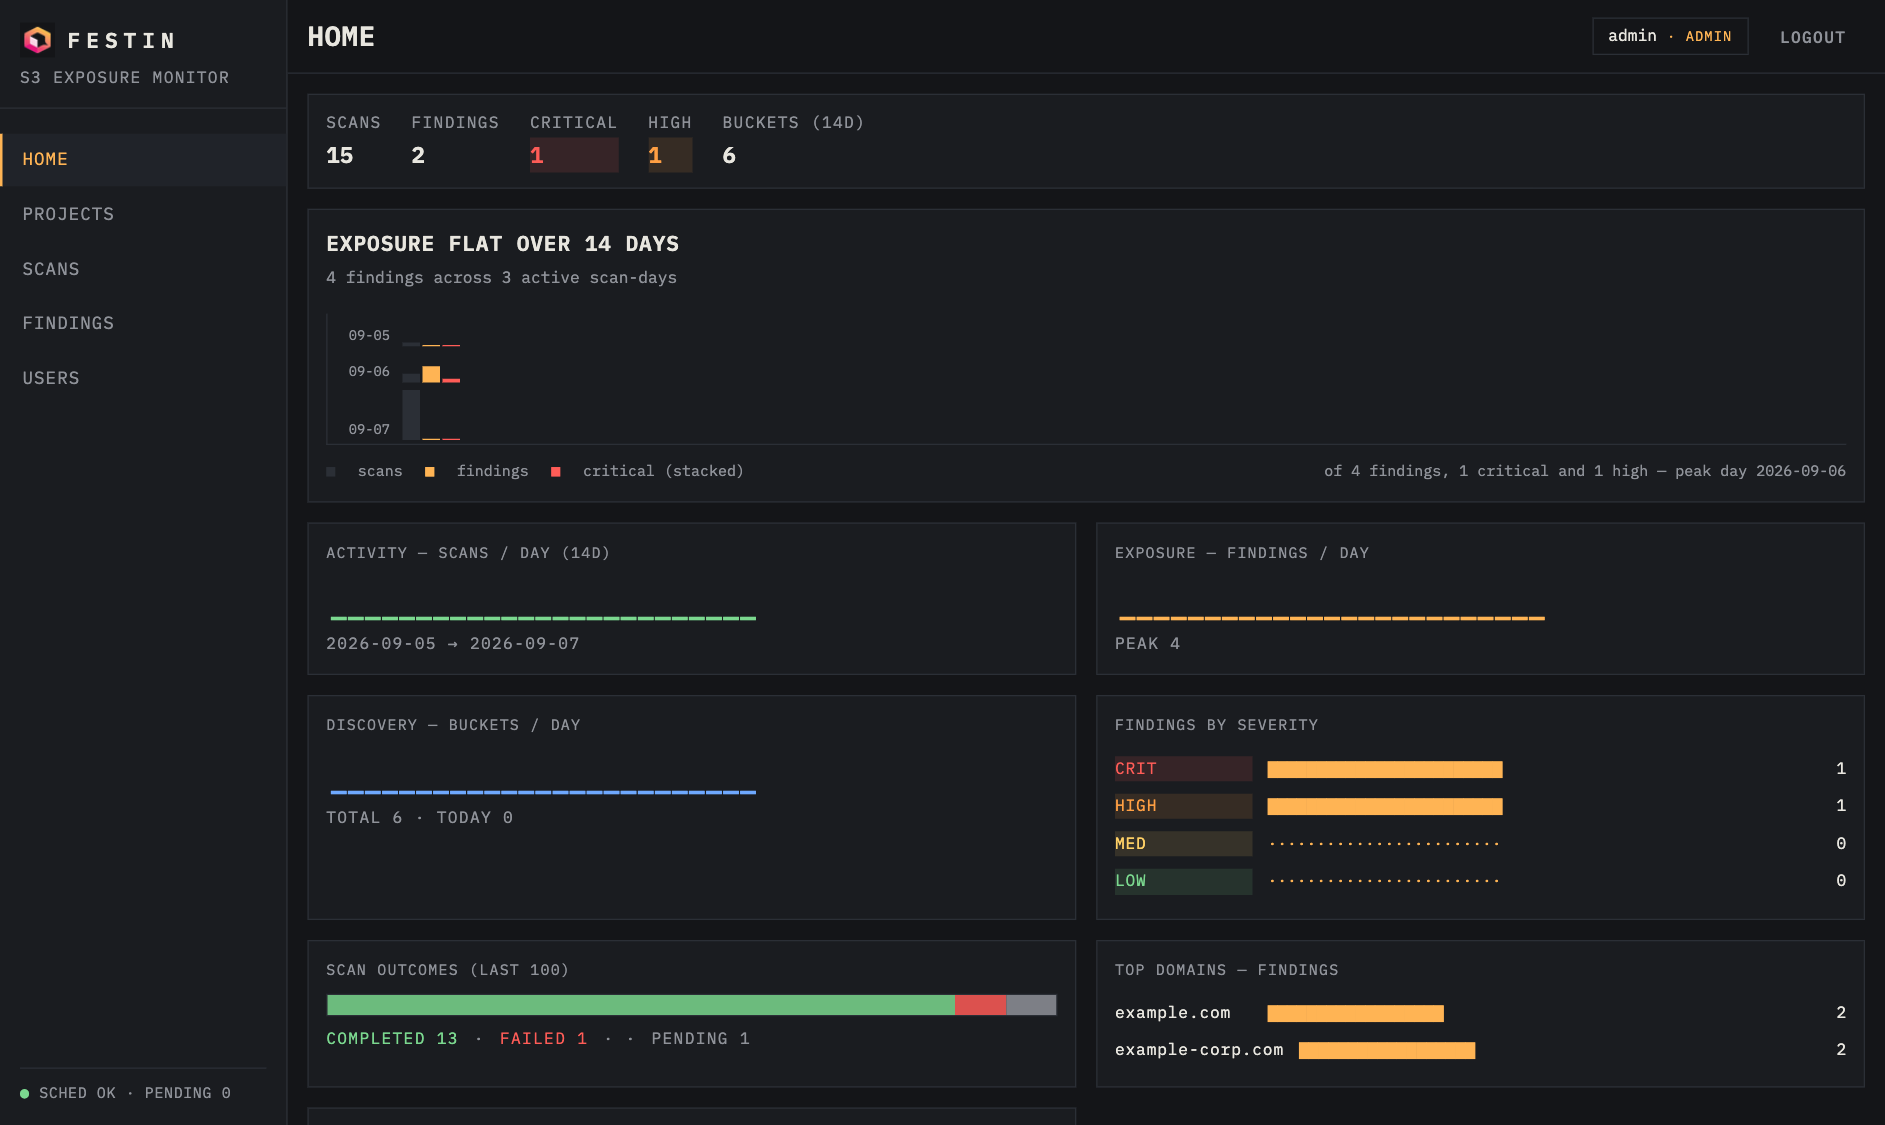
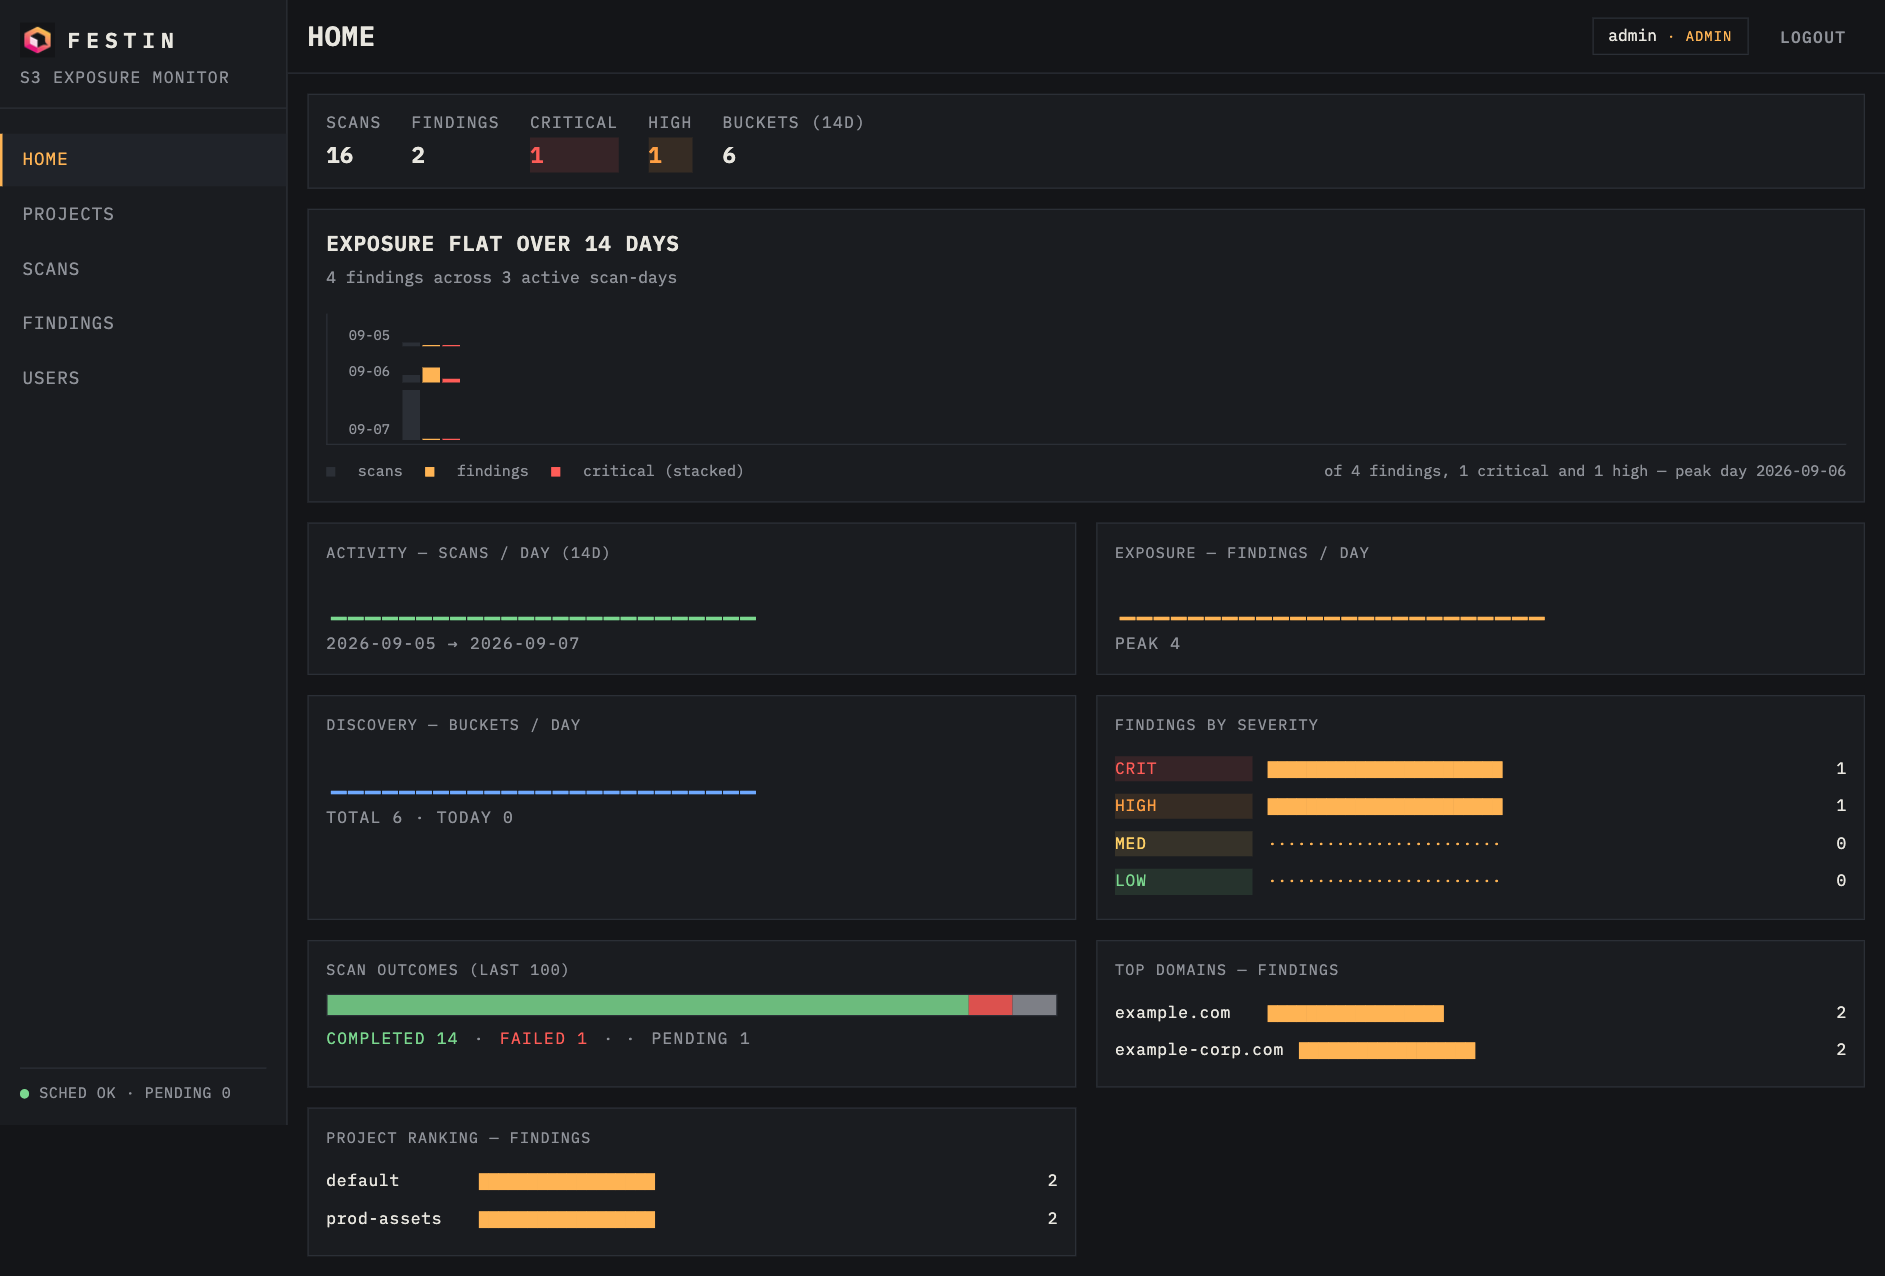
docs(readme): screenshot gallery — home full-page, scans, findings, project detail, mobile
- fresh captures from the live dashboard after the 0.3 UI
- mobile capture (390px) centered at 280px width

diff --git a/README.md b/README.md
@@ -32,6 +32,30 @@ trend chart and a REST API — in an industrial ops-console UI.
   <a href="docs/img/dashboard-home.png"><img src="docs/img/dashboard-home.png" alt="FestIn dashboard" width="760"></a>
 </p>
 
+## See it in action
+
+**HOME — the exposure radar.** Data-generated headline, severity split, scan outcomes and rankings — the full page:
+
+![Dashboard — home](docs/img/dashboard-home.png)
+
+**SCANS** — every execution with status tokens and project/status filters:
+
+![Dashboard — scans](docs/img/dashboard-scans.png)
+
+**FINDINGS** — secrets classified by severity, with rule, bucket, object and redacted match:
+
+![Dashboard — findings](docs/img/dashboard-findings.png)
+
+**Project detail** — domains, scheduled scans and recent executions per project:
+
+![Project detail](docs/img/dashboard-project.png)
+
+**Responsive** — the same console on a phone:
+
+<p align="center">
+  <a href="docs/img/dashboard-mobile.png"><img src="docs/img/dashboard-mobile.png" alt="Dashboard on mobile" width="280"></a>
+</p>
+
 ## What's new in 0.3
 
 - **Monitoring dashboard** (`festin-serve`): multi-project (organize domains into projects), multi-user (JWT + admin/viewer roles), scheduled scans, full REST API.
